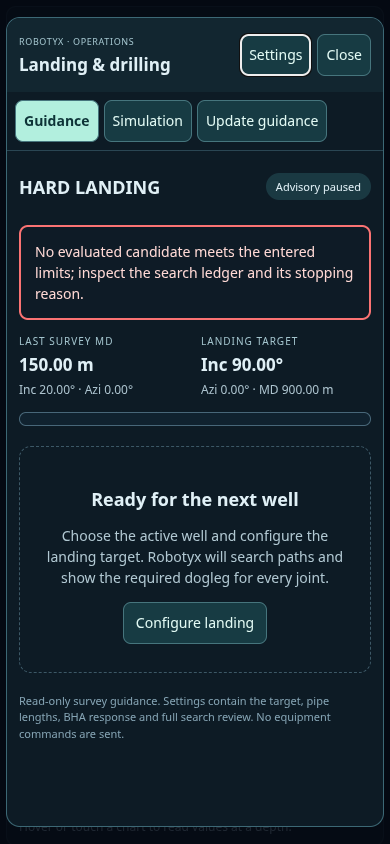
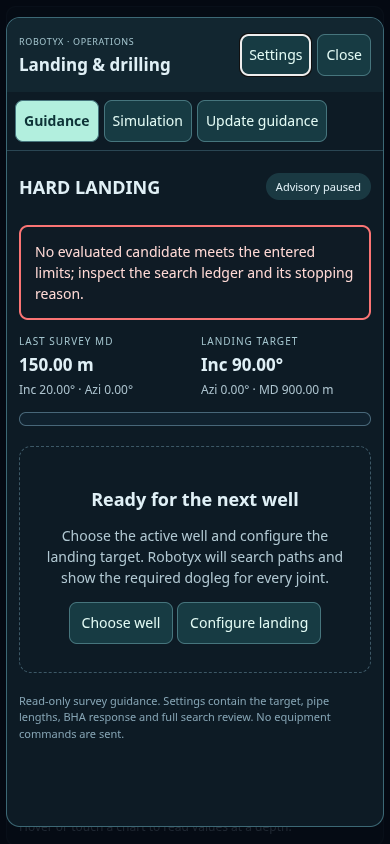
Add phone-friendly well selection and clear scope before next-well setup

diff --git a/drilling/opsnow.js b/drilling/opsnow.js
@@ -8,6 +8,7 @@ import {referenceScope,loadMeasuredReference,inventoryPosition,inventoryResetLab
 import {checkpointState,renderHardpoints,STORAGE_KEY} from './opsnow_hardpoints.mjs?v=hardpoint1118';
 import {uploadedReference} from './opsnow_measured_upload.mjs?v=hardpoint1118';
 import {reportedOperation,reportDepthIssue,drillingReferenceMd,renderOperationReport} from './opsnow_operation_report.mjs?v=eow1118';
+import {wellWorkspaceUrl} from './opsnow_landing_status.mjs?v=ops-landing1';
 import {initLandingDock} from './opsnow_landing_dock.mjs?v=ops-landing1';
 import {initLandingPlanner} from './opsnow_landing.mjs?v=ops-landing1';
 import * as W from './opsnow_wire.js?v=re1115';
@@ -317,7 +318,7 @@ const MARKUP = `
 </main>
 <aside id="onSettings" class="on-settings" hidden>
   <div class="on-h"><h2>Settings</h2><button id="onClose" type="button" aria-label="Close settings">✕</button></div>
-  <label>Wellbore <select id="onSelWb"></select></label>
+  <label>Well name or UID <input id="onWellTarget" type="text" maxlength="256" autocapitalize="off" spellcheck="false"></label><button id="onOpenWell" type="button">Open well</button><p class="on-muted">Opening another well refreshes Ops. Reconnect if prompted.</p><label>Wellbore <select id="onSelWb"></select></label>
   <label>Drilling log <select id="onSelLog"></select></label>
   <div id="onDiag" class="on-diag"></div>
   <p><button id="onReload" type="button">Re-read now</button> <button id="onOut" type="button">Sign out</button></p>
@@ -374,6 +375,9 @@ function survPlot(cv, pts, mode, plan) {
 let built = false, pumpGraphic = null;
 function buildCommon() {
   $('onUser').value = W.rememberedUser();
+  $('onWellTarget').value=DEF_WELL;
+  $('onOpenWell').onclick=()=>{try{location.assign(wellWorkspaceUrl(location.href,$('onWellTarget').value));}catch(error){setMsg(error.message);$('onWellTarget').focus();}};
+  $('onWellTarget').onkeydown=e=>{if(e.key==='Enter'){e.preventDefault();$('onOpenWell').click();}};
   $('onGo').onclick = () => { const u = $('onUser').value.trim(), p = $('onPass').value; if (!u || !p) return setMsg('Enter username and password'); W.signIn(u, p, $('onRem').checked); $('onPass').value = ''; setMsg('Connecting…'); render(); loop(); };
   $('onGear').onclick = () => { const s = $('onSettings'); s.hidden = !s.hidden; $('onGear').setAttribute('aria-expanded', String(!s.hidden)); render(); };
   $('onClose').onclick = () => { $('onSettings').hidden = true; $('onGear').setAttribute('aria-expanded', 'false'); };

diff --git a/drilling/opsnow_landing_dock.css b/drilling/opsnow_landing_dock.css
@@ -3,3 +3,5 @@
 @media(max-width:600px){#ops-landing nav{flex-wrap:wrap}#ops-landing nav [data-recalculate]{margin-left:0}#ops-landing nav [data-settings]{margin-left:auto}}
 
 #ops-landing .ld-header-actions{display:flex;gap:6px}#ops-landing header small{letter-spacing:.07em}@media(max-width:600px){#ops-landing header{gap:6px}#ops-landing header h2{font-size:17px}#ops-landing .ld-header-actions button{padding:8px}#ops-landing header small{font-size:9px}}
+
+#onSettings #onWellTarget{display:block;width:100%;box-sizing:border-box;min-height:42px;margin:6px 0 10px;border:1px solid #3c5c6d;border-radius:8px;padding:9px;background:#0a1822;color:#e4f1f6;font:inherit}

diff --git a/drilling-tests/LANDING-PLANNER.md b/drilling-tests/LANDING-PLANNER.md
@@ -320,7 +320,8 @@ its rendering work; returning to Guidance preserves the active plan.
 
 To prepare the next well:
 
-1. Choose its wellbore in Ops Settings and confirm the feed/survey scope.
+1. In Ops Settings enter its well name or UID and choose Open well. Reconnect
+   if prompted, choose its wellbore and confirm the feed/survey scope.
 2. Open Landing & drilling, then Settings.
 3. Enter the landing target and reviewed limits; choose 6 m, 9 m, nominal or
    measured tally lengths and the correct BHA run.
@@ -328,7 +329,7 @@ To prepare the next well:
 5. Follow the advisory joint requirements and review recalculations with each
    survey. No rig command, live well-plan update or automatic steering is issued.
 
-Verification adds nine status-gating unit tests and desktop/phone browser checks
+Verification adds ten status/next-well unit tests and desktop/phone browser checks
 for the main entry, Settings return, exact next joint, 3D rotation, recalculation
 with closed dialogs, isolated lazy simulation, delayed/off-bottom/hard suppression,
 scope changes, responsive fit and zero transport calls. Screenshots are in
